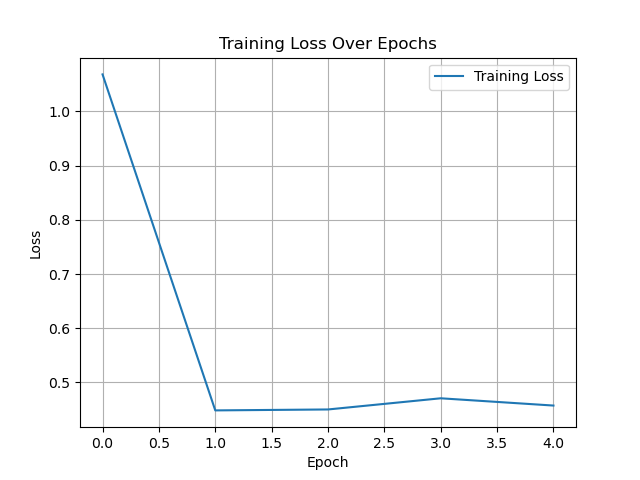
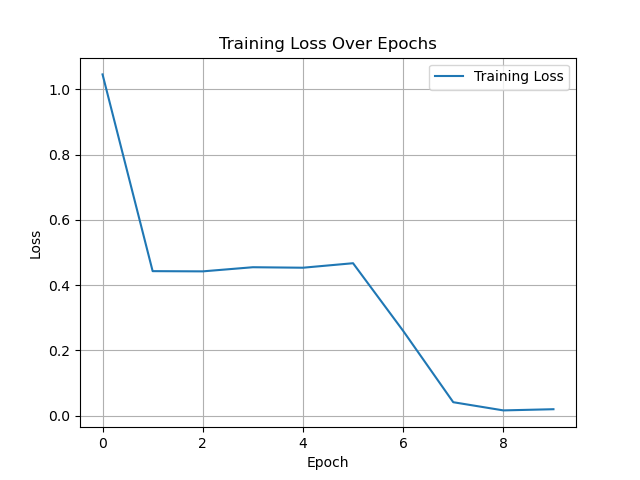
chore: Update num_epochs to 10 in example_get_embeddings.py

diff --git a/old_notebooks/features-extractors/PathDino/example_get_embeddings.py b/old_notebooks/features-extractors/PathDino/example_get_embeddings.py
@@ -95,7 +95,7 @@ if __name__ == "__main__":
     scaler = GradScaler()
 
     # Fine-tune the model
-    num_epochs = 50
+    num_epochs = 10
     model.train()
     training_losses = []
     for epoch in range(num_epochs):
@@ -106,6 +106,9 @@ if __name__ == "__main__":
             with autocast():
                 outputs = model(inputs)
                 loss = criterion(outputs, labels)
+            if torch.isnan(loss):
+                print(f"NaN loss encountered at epoch {epoch+1}")
+                continue
             scaler.scale(loss).backward()
             scaler.step(optimizer)
             scaler.update()
